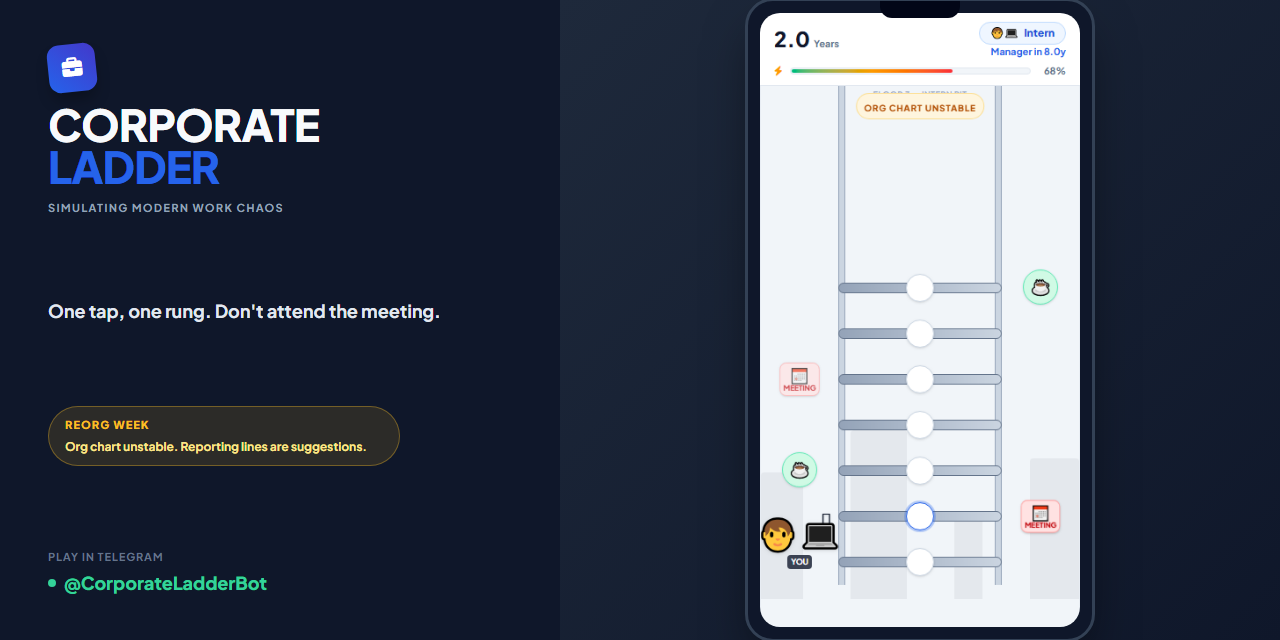
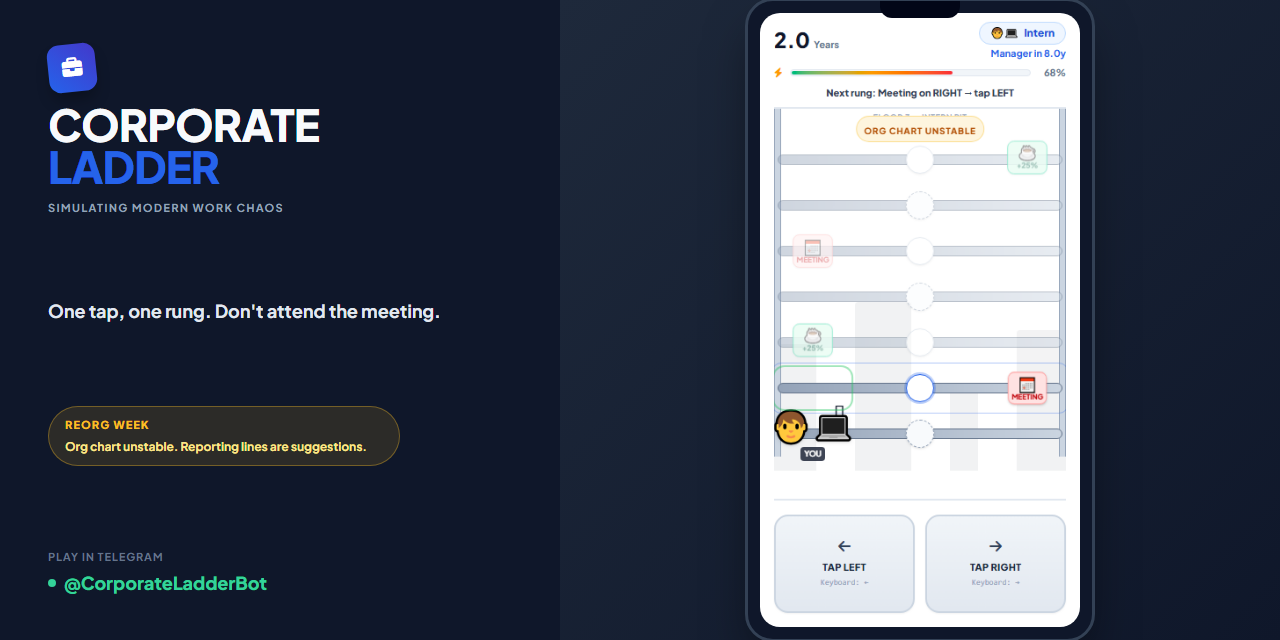
Add marketing screenshot pipeline with seeded capture modes.
Playwright capture:marketing produces home, gameplay, and game-over assets; OG crop uses marketing gameplay frame with tap deck; docs/assets/marketing README includes rubric scores.

Changed region(s): [[0.5938, 0.0625, 0.8438, 0.9375], [0.7812, 0.0625, 0.8438, 0.125]]

diff --git a/apps/mini-app/src/app.ts b/apps/mini-app/src/app.ts
@@ -20,6 +20,20 @@ import {
 import { type DailyModifier, resolveDailyModifier } from "./game/daily-modifier";
 import { GameEngine } from "./game/engine";
 import {
+  buildMarketingGameRungs,
+  getMarketingCaptureMode,
+  MARKETING_GAME_ENERGY,
+  MARKETING_GAME_MODIFIER,
+  MARKETING_GAME_PLAYER_SIDE,
+  MARKETING_GAME_RANK,
+  MARKETING_GAME_SCORE,
+  MARKETING_GAME_YEARS,
+  MARKETING_GAMEOVER,
+  MARKETING_HOME_HIGH_SCORE,
+  MARKETING_HOME_MODIFIER,
+  MARKETING_HOME_USERNAME,
+} from "./game/marketing-capture";
+import {
   buildOgCaptureRungs,
   OG_CAPTURE_DAILY_MODIFIER,
   OG_CAPTURE_ENERGY,
@@ -547,7 +561,7 @@ function renderRungsInner(): void {
     leftSlot.classList.remove("safe-side-hint", "next-obstacle-warn", "next-coffee-hint");
     rightSlot.classList.remove("safe-side-hint", "next-obstacle-warn", "next-coffee-hint");
 
-    if (shouldShowImminentHint(engine.getRungsClimbed()) && i === 1) {
+    if ((shouldShowImminentHint(engine.getRungsClimbed()) || getMarketingCaptureMode() === "game") && i === 1) {
       leftSlot.classList.toggle("safe-side-hint", rung.obstacle !== "left");
       rightSlot.classList.toggle("safe-side-hint", rung.obstacle !== "right");
     }
@@ -863,28 +877,7 @@ async function runPostGameOverIo(
 }
 
 function seedGameOverForQa(): void {
-  lastGameResult = {
-    yearsSurvived: 4.5,
-    finalRank: "Intern",
-    deathType: "meeting",
-    terminationCause: "Meeting collision",
-    terminationDetail: "Attended one meeting too many.",
-    terminationFlavor: "Your calendar owned you.",
-    rungsClimbed: 18,
-  };
-  $("statYears").textContent = "4.5 Years";
-  $("statRank").innerHTML = `<span>${rankEmoji("Intern")}</span> Intern`;
-  $("terminationCauseIcon").textContent = DEATH_EMOJI.meeting;
-  $("terminationCauseLabel").textContent = DEATH_LABELS.meeting;
-  $("terminationReason").textContent = `"${lastGameResult.terminationDetail}"`;
-  $("retryTip").textContent = RETRY_TIPS.meeting;
-  $("terminationFlavor").textContent = `"${lastGameResult.terminationFlavor}"`;
-  $("reviewId").textContent = "REF-89412";
-  $("statBestDelta").textContent = "";
-  $("careerHighLine").textContent = "";
-  $("leaderboardGapLine").textContent = "";
-  $("leaderboardGapLine").classList.add("hidden");
-  $("reapplyFlavorLine").textContent = reappliesFlavor(1);
+  applyMarketingGameOverUi();
 }
 
 async function onGameOver(result: GameOverResult): Promise<void> {
@@ -1033,6 +1026,119 @@ function bindTapButton(el: HTMLElement, side: PlayerSide): void {
       if (earlyTapsRemaining === 0) hideTapDeckHint();
     }
   });
+}
+
+function signalCaptureReady(delayMs = 0): void {
+  window.setTimeout(() => {
+    requestAnimationFrame(() => {
+      layoutRungs();
+      requestAnimationFrame(() => {
+        (window as unknown as Record<string, unknown>).__CL_CAPTURE_READY__ = true;
+      });
+    });
+  }, delayMs);
+}
+
+function applyDailyModifierUi(modifier: DailyModifier): void {
+  activeDailyModifier = modifier;
+  $("dailyShiftLabel").textContent = modifier.label;
+  $("dailyShiftDescription").textContent = modifier.description;
+  const pill = $("dailyShiftPill");
+  if (pill) {
+    pill.title = modifier.description;
+    pill.classList.toggle("ticker-shift-emphasis", modifier.id !== "standard");
+  }
+
+  const viewport = document.querySelector(".cl-viewport");
+  if (viewport) {
+    for (const cls of GRID_TINT_CLASSES) {
+      viewport.classList.remove(cls);
+    }
+    if (modifier.gridTintClass) {
+      viewport.classList.add(modifier.gridTintClass);
+    }
+  }
+}
+
+function mountMarketingHomeCapture(): void {
+  hideAuthDegradedBanner();
+  username = MARKETING_HOME_USERNAME;
+  ($("usernameInput") as HTMLInputElement).value = username;
+  highScore = MARKETING_HOME_HIGH_SCORE;
+  bestRank = rankFromYears(Math.floor(highScore));
+  applyDailyModifierUi(MARKETING_HOME_MODIFIER);
+  mountTickerHeadline();
+  refreshHomeBadgeUI();
+  switchTab("home");
+  $("startScreen").scrollTop = 0;
+  signalCaptureReady(500);
+}
+
+function mountMarketingGameCapture(): void {
+  document.documentElement.dataset.ogCapture = "1";
+  document.documentElement.dataset.captureVariant = "marketing";
+  applyDailyModifierUi(MARKETING_GAME_MODIFIER);
+
+  $("soundToggleBtn").classList.add("hidden");
+  hideHudTapHint();
+  hideTapDeckHint();
+  hideHrMemo();
+
+  prevRungsSnapshot = [];
+  earlyTapsRemaining = 0;
+  playerInPanic = false;
+  playerAtCorridor = false;
+  $("playerActionEmoji").classList.remove("idle-bob");
+
+  engine.applyOgCaptureSnapshot(
+    buildMarketingGameRungs(),
+    MARKETING_GAME_SCORE,
+    MARKETING_GAME_ENERGY,
+    MARKETING_GAME_PLAYER_SIDE,
+    MARKETING_GAME_RANK
+  );
+
+  updateRankUI(MARKETING_GAME_RANK);
+  updateMilestoneChip(MARKETING_GAME_YEARS);
+  updateFloorLabel(MARKETING_GAME_YEARS);
+  updateReorgHudStrip(MARKETING_GAME_RANK);
+  $("burnoutMeter").style.width = `${MARKETING_GAME_ENERGY}%`;
+  $("burnoutPercentLabel").textContent = `${MARKETING_GAME_ENERGY}%`;
+  $("gameYearsLabel").textContent = MARKETING_GAME_YEARS.toFixed(1);
+  updateImminentRungHint();
+
+  switchTab("game");
+
+  requestAnimationFrame(() => {
+    layoutRungs();
+    layoutPlayerPosition("center");
+    signalCaptureReady();
+  });
+}
+
+function applyMarketingGameOverUi(): void {
+  const result = MARKETING_GAMEOVER;
+  lastGameResult = result;
+  $("statYears").textContent = `${result.yearsSurvived.toFixed(1)} Years`;
+  $("statRank").innerHTML = `<span>${rankEmoji(result.finalRank)}</span> ${result.finalRank}`;
+  $("terminationCauseIcon").textContent = DEATH_EMOJI[result.deathType];
+  $("terminationCauseLabel").textContent = DEATH_LABELS[result.deathType];
+  $("terminationReason").textContent = `"${result.terminationDetail}"`;
+  $("retryTip").textContent = RETRY_TIPS[result.deathType];
+  $("terminationFlavor").textContent = `"${result.terminationFlavor}"`;
+  $("reviewId").textContent = "REF-89412";
+  $("statBestDelta").textContent = "";
+  $("careerHighLine").textContent = "Career high: Intern (3.5y)";
+  $("leaderboardGapLine").textContent = "";
+  $("leaderboardGapLine").classList.add("hidden");
+  $("reapplyFlavorLine").textContent = reappliesFlavor(1);
+}
+
+function mountMarketingGameOverCapture(): void {
+  hideAuthDegradedBanner();
+  applyMarketingGameOverUi();
+  switchTab("gameover");
+  signalCaptureReady(300);
 }
 
 function mountOgCaptureMode(): void {
@@ -1264,6 +1370,20 @@ export function mountApp(): void {
   refreshHomeBadgeUI();
   if (isOgCaptureMode()) {
     mountOgCaptureMode();
+    return;
+  }
+
+  const marketingCaptureMode = getMarketingCaptureMode();
+  if (marketingCaptureMode === "home") {
+    mountMarketingHomeCapture();
+    return;
+  }
+  if (marketingCaptureMode === "game") {
+    mountMarketingGameCapture();
+    return;
+  }
+  if (marketingCaptureMode === "gameover") {
+    mountMarketingGameOverCapture();
     return;
   }
 

diff --git a/apps/mini-app/src/game/marketing-capture.ts b/apps/mini-app/src/game/marketing-capture.ts
@@ -1,0 +1,39 @@
+import { FAILURE_REASONS, OBSTACLE_DEATH_COPY } from "./constants";
+import { getDailyModifierById } from "./daily-modifier";
+import { buildOgCaptureRungs } from "./og-capture";
+import type { DeathType, PlayerSide, Rank, Rung } from "./types";
+
+export type MarketingCaptureMode = "home" | "game" | "gameover";
+
+export const MARKETING_HOME_USERNAME = "CorporateSlave";
+export const MARKETING_HOME_HIGH_SCORE = 3.5;
+
+export const MARKETING_GAME_SCORE = 8;
+export const MARKETING_GAME_YEARS = MARKETING_GAME_SCORE / 4;
+export const MARKETING_GAME_ENERGY = 68;
+export const MARKETING_GAME_PLAYER_SIDE: PlayerSide = "left";
+export const MARKETING_GAME_RANK: Rank = "Intern";
+export const MARKETING_GAME_MODIFIER = getDailyModifierById("reorg_week");
+
+export const MARKETING_HOME_MODIFIER = getDailyModifierById("standard");
+
+export function getMarketingCaptureMode(): MarketingCaptureMode | null {
+  if (typeof window === "undefined") return null;
+  const value = new URLSearchParams(window.location.search).get("capture");
+  if (value === "home" || value === "game" || value === "gameover") return value;
+  return null;
+}
+
+export function buildMarketingGameRungs(): Rung[] {
+  return buildOgCaptureRungs();
+}
+
+export const MARKETING_GAMEOVER = {
+  yearsSurvived: 6.2,
+  finalRank: "Intern" as Rank,
+  deathType: "meeting" as DeathType,
+  terminationCause: OBSTACLE_DEATH_COPY.meeting.cause,
+  terminationDetail: OBSTACLE_DEATH_COPY.meeting.detail,
+  terminationFlavor: FAILURE_REASONS[0] ?? "Your synergy did not scale optimally with our paradigms.",
+  rungsClimbed: 25,
+};

diff --git a/apps/mini-app/src/style.css b/apps/mini-app/src/style.css
@@ -691,6 +691,10 @@ html.cl-in-telegram .cl-telegram-cta-hint {
   display: none !important;
 }
 
+[data-og-capture="1"][data-capture-variant="marketing"] #tapControlsBar {
+  display: grid !important;
+}
+
 [data-og-capture="1"] #ogCaptureFrame {
   min-height: 520px;
 }

diff --git a/docs/assets/marketing/README.md b/docs/assets/marketing/README.md
@@ -1,0 +1,55 @@
+# Marketing screenshots — Corporate Ladder
+
+Real Playwright captures from the production build (390×844 phone shell). Regenerate after UI changes:
+
+```bash
+cd apps/mini-app
+npm run build && npm run preview -- --host 127.0.0.1 --port 4173
+# terminal 2
+npm run capture:marketing
+npm run capture:og   # refreshes public/og.png composite crop
+```
+
+Capture modes: `/?capture=home|game|gameover` (see `src/game/marketing-capture.ts`).
+
+## Files
+
+| File | Use | Suggested caption |
+|------|-----|-------------------|
+| `01-home.png` | Telegram intro, landing hero | *Tap left or right. Dodge meetings. Survive the org chart.* |
+| `02-gameplay-dodge.png` | Carousel slide 2, README gameplay | *One tap, one rung. Don't attend the meeting.* |
+| `03-game-over.png` | Carousel slide 3, humor hook | *Employment terminated. HR will not be taking questions.* |
+
+Link previews: `apps/mini-app/public/og.png` (1200×630 composite with phone inset from `?capture=game` crop).
+
+## Rubric evaluation (v1 — post pipeline)
+
+Scores 1–5; pass threshold ≥4.
+
+| Criterion | 01-home | 02-gameplay | 03-game-over |
+|-----------|---------|-------------|--------------|
+| 3-second clarity | 5 | 5 | 5 |
+| Thumbnail legibility (~200px) | 5 | 4 | 4 |
+| Satire signal | 5 | 5 | 5 |
+| Layout trust (no banner/clip) | 5 | 5 | 5 |
+| Action affordance | 4 | 5 | 3 |
+| Brand | 5 | 4 | 5 |
+| **Average** | **4.8** | **4.7** | **4.5** |
+
+**Pass:** all shots ≥4 average; no criterion below 3.
+
+### Notes
+
+- **Home:** Clean seed (no auth banner), standard shift, inline PUNCH IN visible in browser shell.
+- **Gameplay:** Reorg Week tint, imminent hint (*Meeting on RIGHT → tap LEFT*), tap deck + safe-side highlight — best teaching frame.
+- **Game over:** `OBSTACLE_DEATH_COPY.meeting` detail + `FAILURE_REASONS[0]` flavor; REJECTED stamp visible.
+
+### Future A/B (optional)
+
+- Gameplay at **6.0y** with Manager badge (aspiration) — trade-off: loses tutorial hints unless forced.
+- Home **tight crop** (hero + badge only) if carousel needs less scroll context.
+- Device Telegram capture for F&F posts (native MainButton visible).
+
+## Legacy alias
+
+`npm run capture:hero` runs marketing capture and copies `01-home.png` → `docs/assets/gameplay.png` for README compatibility.

diff --git a/apps/mini-app/README.md b/apps/mini-app/README.md
@@ -88,7 +88,8 @@ npm run test     # Vitest (engine + constants)
 npm run build    # Production bundle → dist/
 npm run preview  # Preview production build
 npm run qa:viewport  # Playwright overflow check (preview must be running)
-npm run capture:hero  # README portrait → docs/assets/gameplay.png
+npm run capture:marketing  # Marketing set → docs/assets/marketing/
+npm run capture:hero  # Legacy alias → copies 01-home to docs/assets/gameplay.png
 npm run capture:og    # Link previews → public/og.png + .github/social-preview.png
 npm run verify:og     # Assert OG PNG dimensions (CI)
 ```
@@ -105,12 +106,13 @@ Regenerate after shell/game UI changes:
 
 ```bash
 npm run build && npm run preview -- --host 127.0.0.1 --port 4173
-# terminal 2 (set PREVIEW_URL if preview picked another port)
-npm run capture:og
+# terminal 2
+npm run capture:marketing   # docs/assets/marketing/ (home, gameplay, game over)
+npm run capture:og          # public/og.png + .github/social-preview.png
 npm run verify:og
 ```
 
-Outputs: `public/og.png` (1200×630), `.github/social-preview.png` (1280×640). Intermediate crop in `public/og-cache/` (gitignored).
+Outputs: `docs/assets/marketing/01-home.png`, `02-gameplay-dodge.png`, `03-game-over.png`; `public/og.png` (1200×630); `.github/social-preview.png` (1280×640). Rubric and captions: [../../docs/assets/marketing/README.md](../../docs/assets/marketing/README.md). Intermediate crop in `public/og-cache/` (gitignored).
 
 ## Local Development
 

diff --git a/CHANGELOG.md b/CHANGELOG.md
@@ -12,6 +12,7 @@ Versioning follows [Semantic Versioning](https://semver.org/spec/v2.0.0.html).
 ### Added
 - **Near-miss wince (v1.9.0)** — safe-side tap past imminent hazard triggers brief player wince + haptic; `prefers-reduced-motion` safe
 - **Synergy Sprint preset (v1.9.0)** — 5th daily shift with 60s wall-clock cap; score = years at buzzer; sprint HUD chip + satirical game-over/share copy
+- **Marketing screenshot pipeline** — `?capture=home|game|gameover` seeds, `npm run capture:marketing` → `docs/assets/marketing/` (01-home, 02-gameplay-dodge, 03-game-over); OG crop uses marketing gameplay frame
 
 ### Fixed
 - **CI coffee QA** — single `vite preview` on port 4173 for viewport, layout, and coffee Playwright steps (fixes port drift when prior preview processes stayed alive)